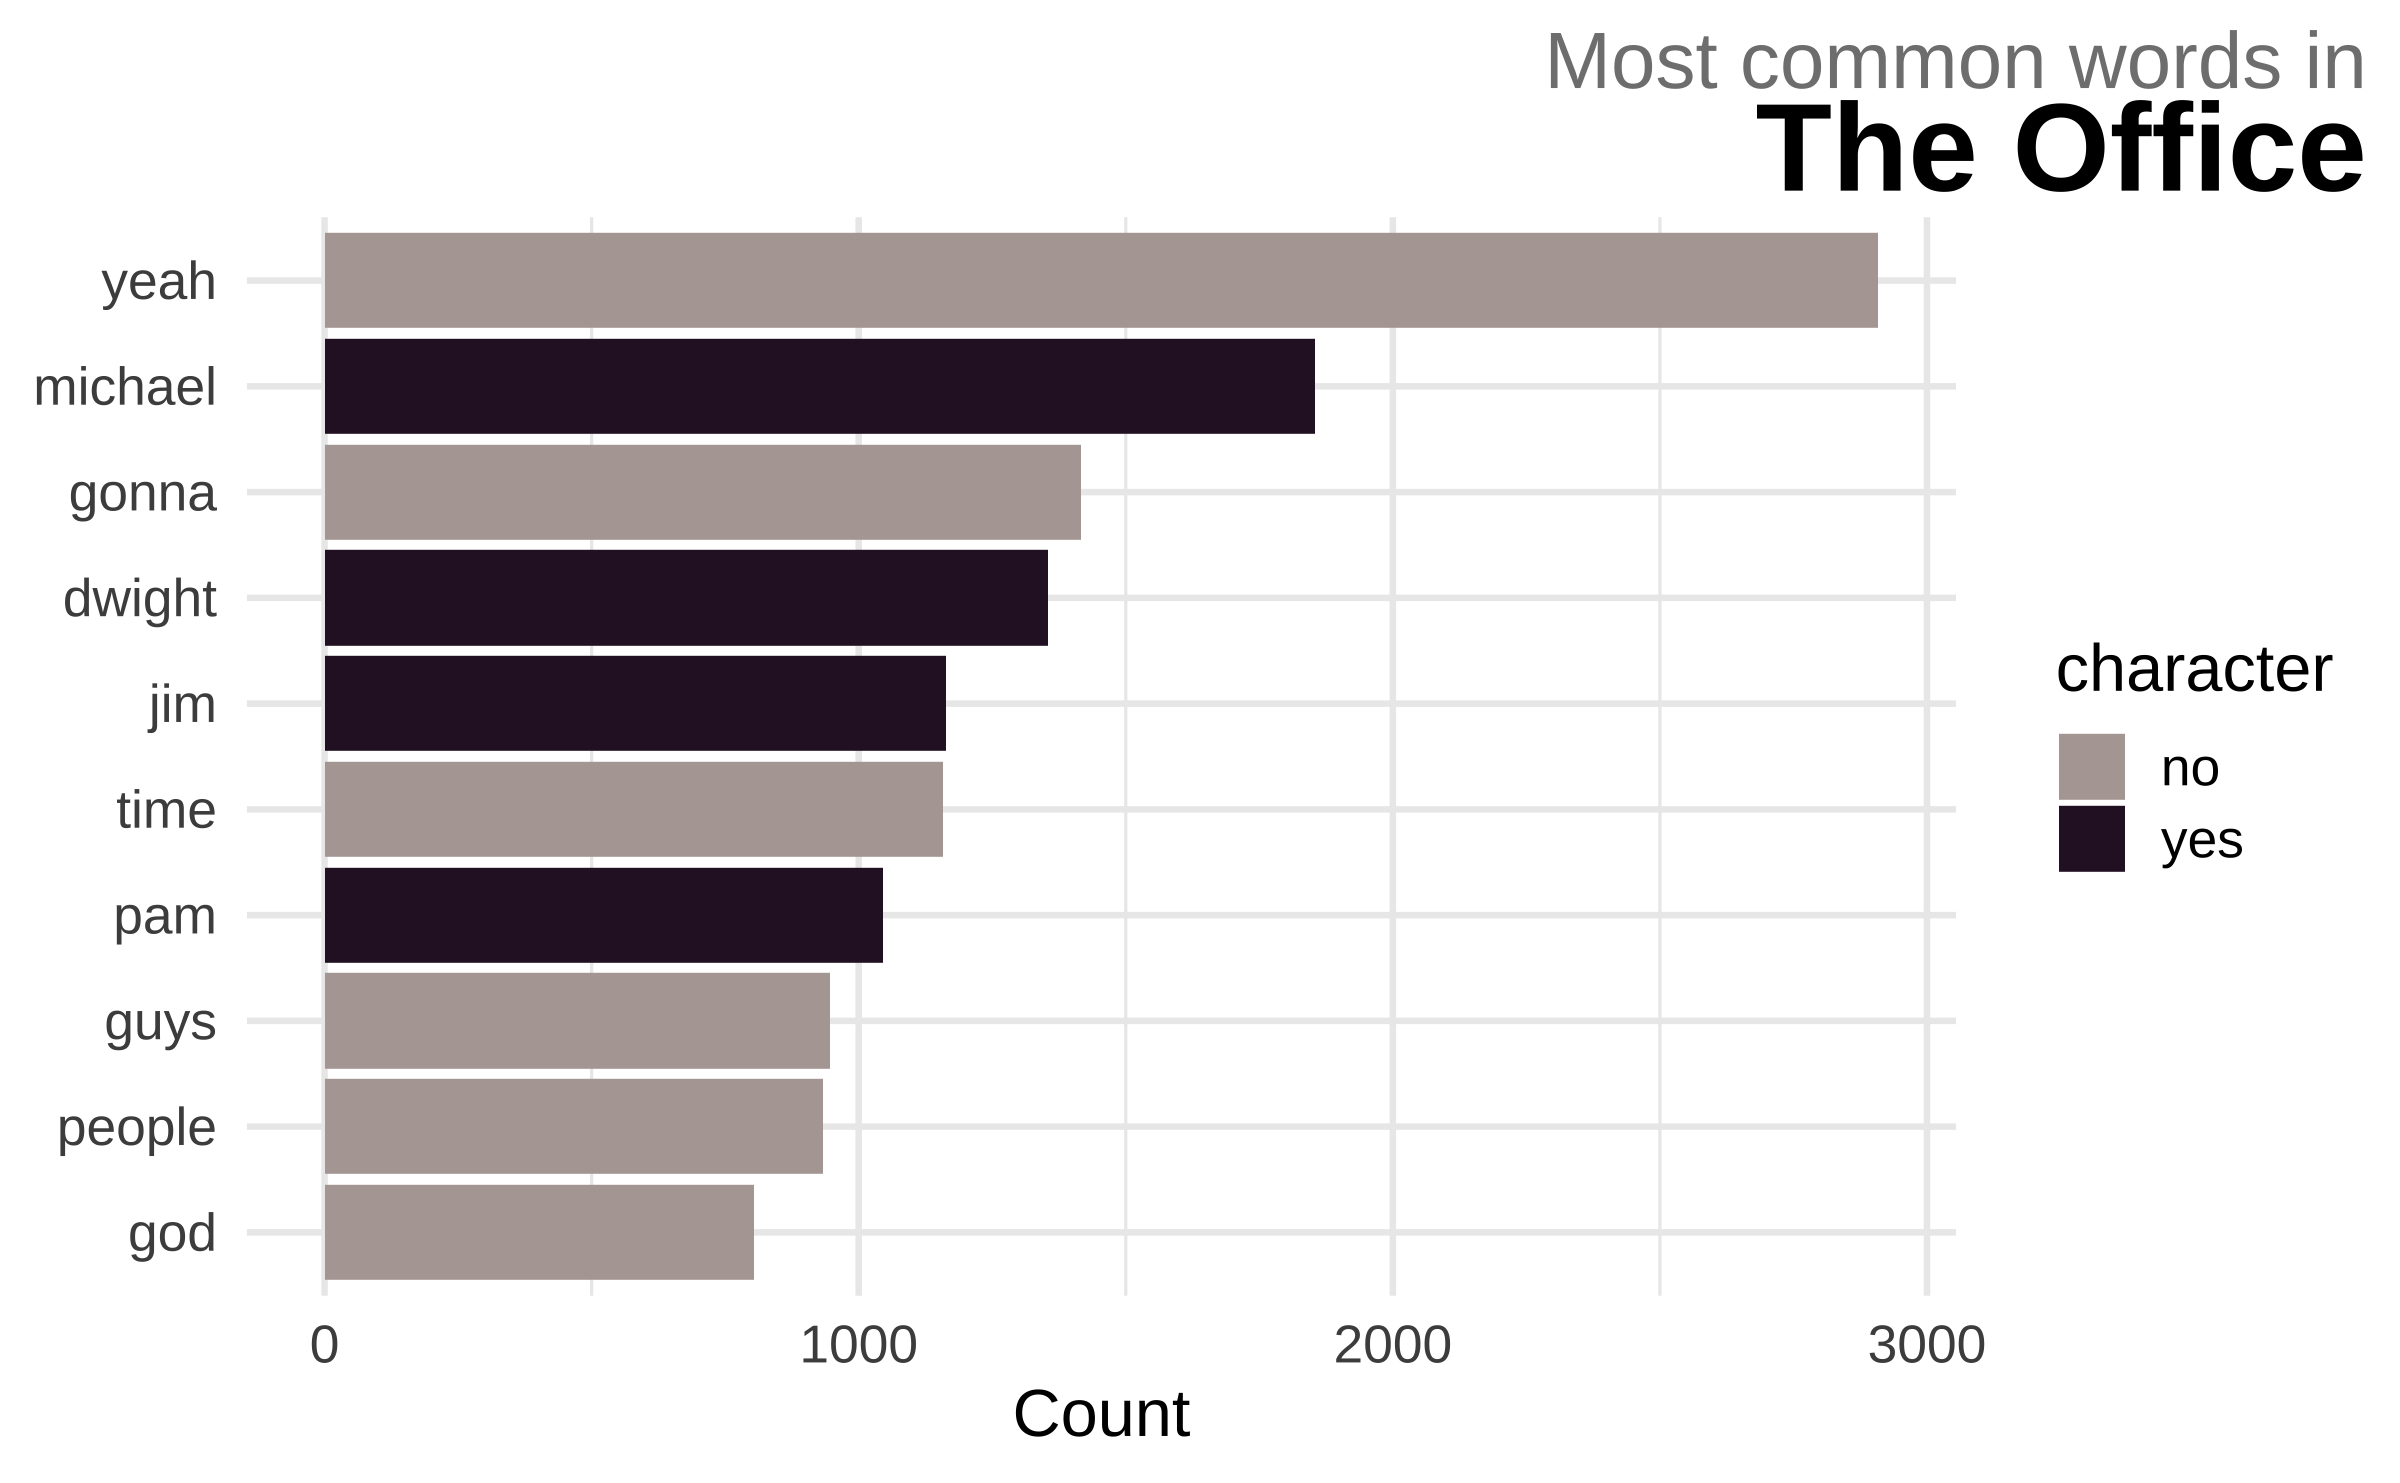
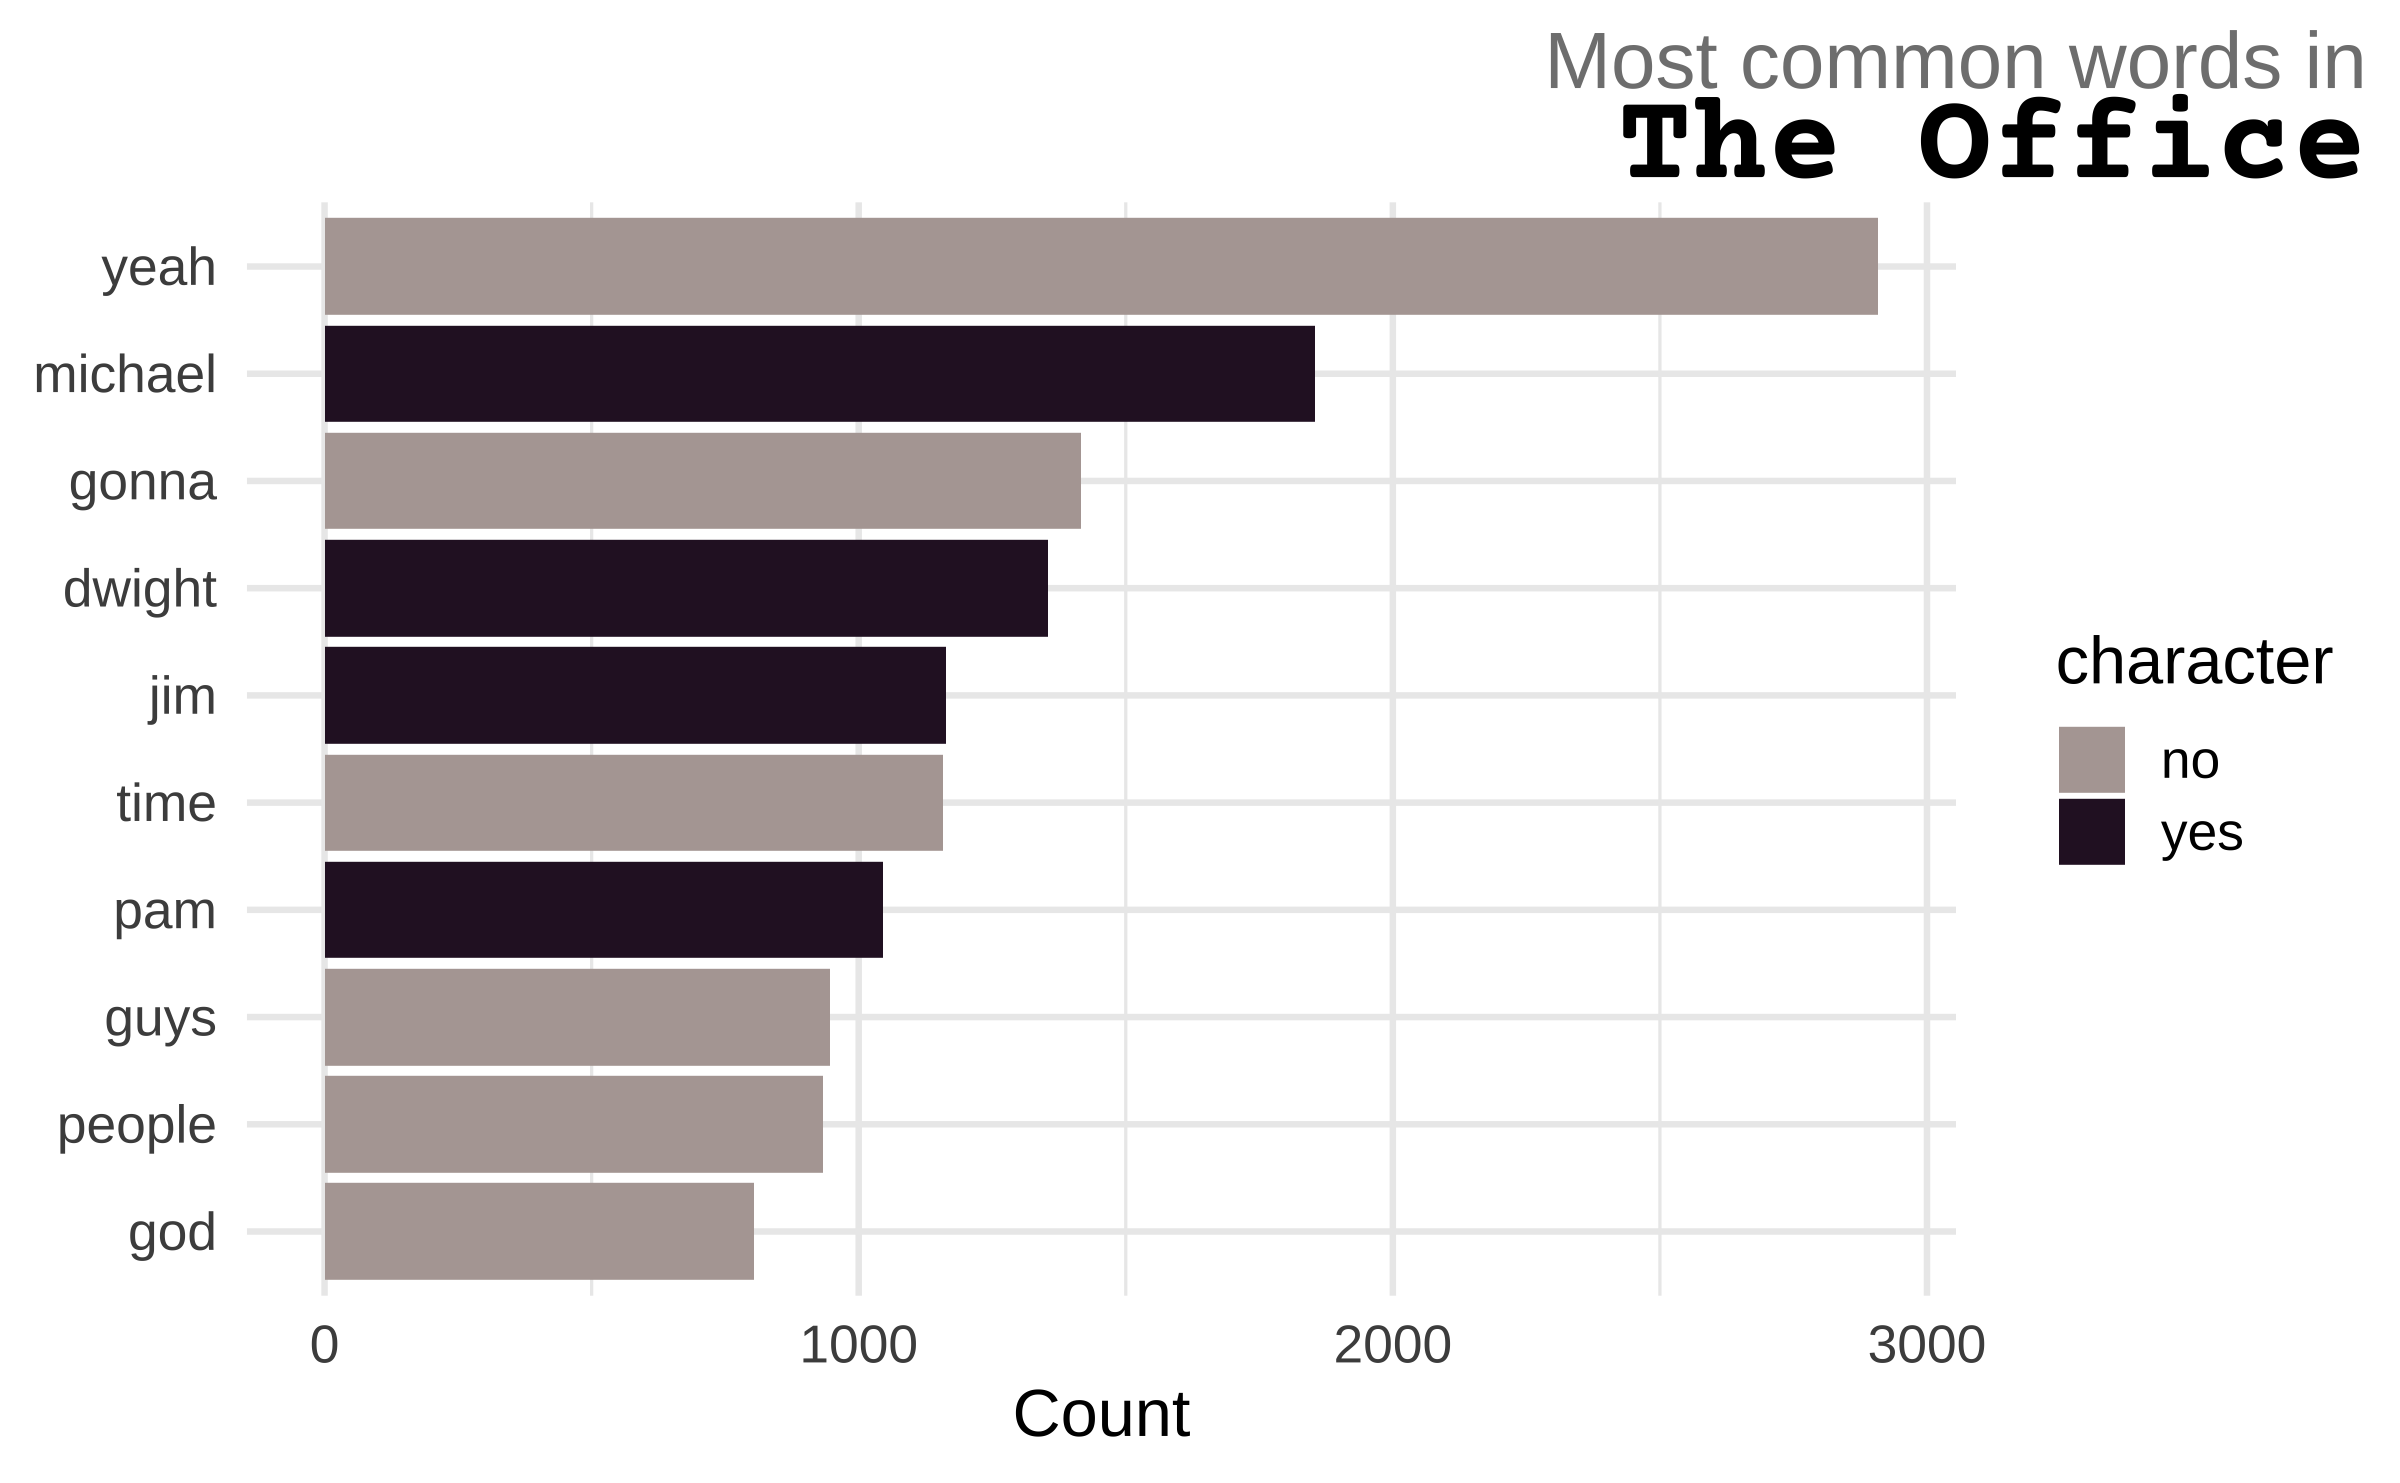
fix font

diff --git a/static/slides/13-visualize-text-network/index.html b/static/slides/13-visualize-text-network/index.html
@@ -602,14 +602,14 @@ class: inverse, center, middle
 # Your turn!
 
 ---
-# Activity: testing out text analysis
+# Activity: Make a visualization
 
 - Find relevant data (see next slides for more detail)
   * If you are struggling -- you can use The Office data: 
 - Remove stopwords
 - Create a relevant visualization (e.g. top words)
 
-<div class="countdown" id="timer_fb602e04" data-update-every="1" tabindex="0" style="right:0;bottom:0;">
+<div class="countdown" id="timer_ffdb1e2f" data-update-every="1" tabindex="0" style="right:0;bottom:0;">
 <div class="countdown-controls"><button class="countdown-bump-down">&minus;</button><button class="countdown-bump-up">&plus;</button></div>
 <code class="countdown-time"><span class="countdown-digits minutes">08</span><span class="countdown-digits colon">:</span><span class="countdown-digits seconds">00</span></code>
 </div>
@@ -626,6 +626,13 @@ class: inverse, center, middle
 ---
 # Activity: guided (The Office) [step 1: load]
 
+
+```
+## Importing fonts may take a few minutes, depending on the number of fonts and the speed of the system.
+## Continue? [y/n]
+```
+
+Data source: [Kaggle Office data]("https://www.kaggle.com/datasets/nasirkhalid24/the-office-us-complete-dialoguetranscript")
 
 
 ```r
@@ -700,12 +707,13 @@ office_words %&gt;%
   labs(
     x = "Count", y = NULL,
     title = "&lt;span style = 'color:#808080'&gt;Most common words in&lt;/span&gt;",  
-    subtitle ="&lt;span style = 'font-weight:strong; font-family: Courier New'&gt;&lt;b&gt;The Office&lt;/b&gt;&lt;/span&gt;"  
+    subtitle ="&lt;b&gt;The Office&lt;/b&gt;"  
   ) +
   theme(
     plot.title = element_textbox_simple(halign = 1),  
-    plot.subtitle = element_textbox_simple(size = 30, halign = 1),  
+    plot.subtitle = element_textbox_simple(size = 30, halign = 1, family = "courier prime"),  
     plot.title.position = "plot"  
+    
     )
 ```
 
